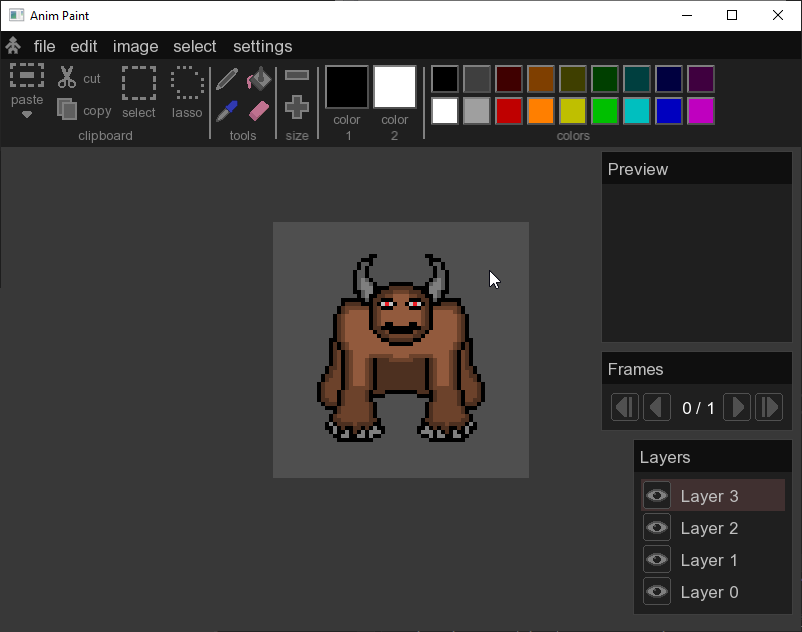
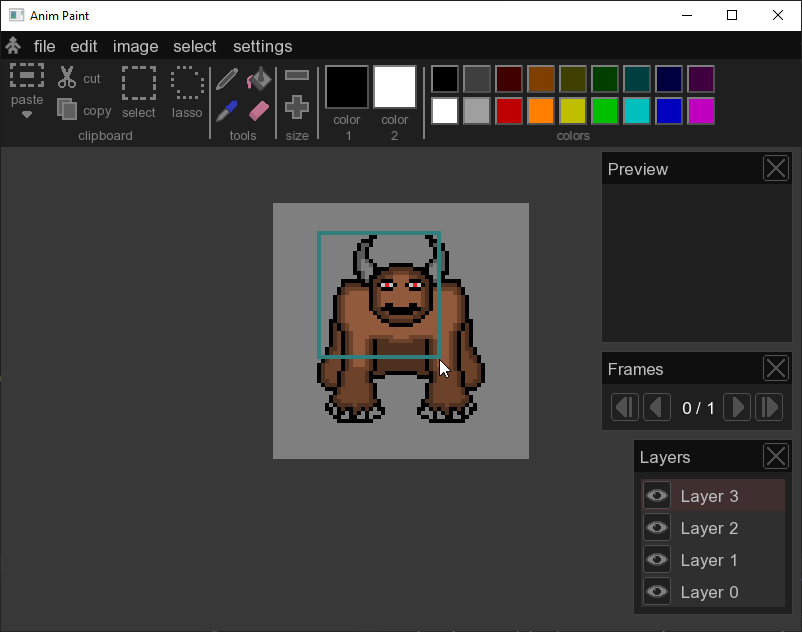
added new in image menu - rotation

diff --git a/Anim-Paint/dialogs/Dialog_Image_Rotation.hpp b/Anim-Paint/dialogs/Dialog_Image_Rotation.hpp
@@ -1,0 +1,131 @@
+#ifndef Dialog_Image_Rotation_hpp
+#define Dialog_Image_Rotation_hpp
+
+class Dialog_Image_Rotation : public Dialog {
+public:
+	sf::Text rotation_text;
+	Slider* rotation_slider;
+	NormalButtonWithText* reset;
+	NormalButtonWithText* confirm;
+
+	std::vector < Layer* > original_layers;
+	std::vector < Layer* > edited_layers;
+
+	Dialog_Image_Rotation(std::vector < Layer* > layers) : Dialog(L"rotation", sf::Vector2f(256,160), sf::Vector2f(8, 120)) {
+		
+		rotation_text = sf::Text(L"rotation", basicFont, 13);
+
+		rotation_slider = new Slider(0,359);
+		rotation_slider->setValue(0);
+
+		reset = new NormalButtonWithText(L"reset", sf::Vector2f(64, 32));
+		reset->onclick_func = [this]() {
+			rotation_slider->setValue(0);
+			setTheFilter();
+			};
+
+		confirm = new NormalButtonWithText(L"confirm", sf::Vector2f(64, 32));
+		confirm->onclick_func = [this]() {
+			state = DialogState::ToClose;
+
+			for (auto& o : original_layers) {
+				delete o;
+			}
+
+			frames_dialog->getCurrentFrame()->layers.clear();
+			frames_dialog->getCurrentFrame()->layers = edited_layers;
+			layers_dialog->loadLayersFromCurrentFrame();
+			};
+
+		original_layers.clear();
+		for (auto& l : layers) {
+			original_layers.push_back(new Layer(l));
+			edited_layers.push_back(new Layer(l));
+		}
+
+		setPosition(position);
+	}
+
+	~Dialog_Image_Rotation() {
+		
+	}
+
+	void setPosition(sf::Vector2f position) {
+		Dialog::setPosition(position);
+
+		sf::Vector2f text_pos;
+		text_pos.x = int(position.x) / 8 * 8 + 24;
+		text_pos.y = int(position.y) / 8 * 8 + dialog_title_rect_height / 2 + (160) / 2 - 24;
+		rotation_text.setPosition(text_pos + sf::Vector2f(0, 2 - basicFont.getLineSpacing(13) / 2));
+
+		sf::Vector2f slider_pos;
+		slider_pos.x = int(position.x) / 8 * 8 + 256 / 2 - 64 / 2;
+		slider_pos.y = int(position.y) / 8 * 8 + dialog_title_rect_height / 2 + (160) / 2 - 24;
+		rotation_slider->setPosition(slider_pos);
+
+		sf::Vector2f button_pos;
+		button_pos.x = int(position.x) / 8 * 8 +256/2 - 32;
+		button_pos.y = int(position.y) / 8 * 8 + 160 - confirm->getSize().y - 16;
+		reset->setPosition(button_pos - sf::Vector2f(48,0));
+		confirm->setPosition(button_pos + sf::Vector2f(48,0));
+	}
+
+	void setTheFilter() {
+		for (auto& lr : edited_layers) {
+			delete lr;
+		}
+
+		edited_layers.clear();
+
+		for (auto& org : original_layers) {
+			edited_layers.push_back(new Layer(org));
+			set_rotation(edited_layers.back()->image, rotation_slider->getValue());
+		}
+
+		frames_dialog->getCurrentFrame()->layers.clear();
+		frames_dialog->getCurrentFrame()->layers = edited_layers;
+		layers_dialog->loadLayersFromCurrentFrame();
+	}
+
+	void cursorHover() {
+		Dialog::cursorHover();
+
+		this->rotation_slider->cursorHover();
+		reset->cursorHover();
+		confirm->cursorHover();
+	}
+
+	void handleEvent(sf::Event& event) {
+		Dialog::handleEvent(event);
+
+		this->rotation_slider->handleEvent(event);
+		reset->handleEvent(event);
+		confirm->handleEvent(event);
+	}
+
+	void update() {
+		Dialog::update();
+
+		rotation_slider->update();
+
+		if (rotation_slider->state == SliderState::Changed) {
+			
+			setTheFilter();
+		}
+		
+		reset->update();
+		confirm->update();
+	}
+
+	void draw() {
+		Dialog::draw();
+
+		window->draw(rotation_text);
+		rotation_slider->draw();
+		reset->draw();
+		confirm->draw();
+	}
+
+};
+
+#endif

diff --git a/Anim-Paint/Filters.hpp b/Anim-Paint/Filters.hpp
@@ -1,5 +1,31 @@
-#ifndef Filters_hpp
+#ifndef Filters_hpp
 #define Filter_hpp
+
+std::string rotation_shader_source = R"(
+uniform sampler2D texture;
+uniform float angle;
+
+vec2 rotate(vec2 uv, vec2 pivot, float a) {
+    float c = cos(a);
+    float s = sin(a);
+    mat2 R = mat2(c, -s,
+                  s,  c);
+    return (R * (uv - pivot)) + pivot;
+}
+
+void main() {
+    vec2 uv = gl_TexCoord[0].xy;
+
+    vec2 rotated_uv = rotate(uv, vec2(0.5, 0.5), angle);
+
+    if (rotated_uv.x < 0.0 || rotated_uv.x > 1.0 ||
+        rotated_uv.y < 0.0 || rotated_uv.y > 1.0) {
+        gl_FragColor = vec4(0.0, 0.0, 0.0, 0.0);
+    } else {
+        gl_FragColor = texture2D(texture, rotated_uv);
+    }
+}
+)";
 
 std::string brightness_shader_source = R"(
 uniform sampler2D texture;
@@ -45,6 +71,28 @@ void main() {
     gl_FragColor = color;
 }
 )";
+
+void set_rotation(sf::Image& image, float angle) {
+
+    angle = angle * 3.14159265f / 180.f;
+
+    sf::Texture tex;
+    tex.loadFromImage(image);
+
+    sf::RenderTexture rtex;
+    rtex.create(tex.getSize().x, tex.getSize().y);
+
+    sf::Shader sh;
+    sh.loadFromMemory(rotation_shader_source, sf::Shader::Fragment);
+    sh.setUniform("angle", angle);
+
+    sf::Sprite spr(tex);
+    rtex.clear(sf::Color::Transparent);
+    rtex.draw(spr, &sh);
+    rtex.display();
+
+    image = rtex.getTexture().copyToImage();
+}
 
 void set_brightness(sf::Image& image, float value) {
 

diff --git a/Anim-Paint/MainMenu.hpp b/Anim-Paint/MainMenu.hpp
@@ -294,6 +294,14 @@ public:
 
 		OptionBox* image_resize_scale = new OptionBox(L"resize/scale");
 		OptionBox* image_trim = new OptionBox(L"trim");
+		OptionBox* image_rotation = new OptionBox(L"rotation");
+		image_rotation->onclick_func = [this]() {
+			dialogs.push_back(new Dialog_Image_Rotation(frames_dialog->getCurrentFrame()->layers));
+
+			if (open_menu_box != nullptr)
+				open_menu_box->isOpen = false;
+			open_menu_box = nullptr;
+			};
 		OptionBox* image_brightness_contrast = new OptionBox(L"brightness-contrast");
 		image_brightness_contrast->onclick_func = [this]() {
 			dialogs.push_back(new Dialog_Image_Brightness_Contrast(frames_dialog->getCurrentFrame()->layers));
@@ -316,6 +324,7 @@ public:
 		
 		image->addOption(image_resize_scale);
 		image->addOption(image_trim);
+		image->addOption(image_rotation);
 		image->addOption(image_brightness_contrast);
 		image->addOption(image_saturation);
 		image->addOption(image_hue);

diff --git a/Anim-Paint/main.cpp b/Anim-Paint/main.cpp
@@ -28,6 +28,7 @@
 #include "FramesDialog.hpp"
 #include "LayersDialog.hpp"
 
+#include "dialogs/Dialog_Image_Rotation.hpp"
 #include "dialogs/Dialog_Image_Brightness_Contrast.hpp"
 #include "dialogs/Dialog_Image_Saturation.hpp"
 
@@ -69,6 +70,12 @@ int main() {
 
 	// TO-DO - for development
 	main_menu->menu_boxes[2]->options[2]->click();
+
+	for (int y = 0; y < 32; y++) {
+		for (int x = 0; x < 4; x++) {
+			layers_dialog->getCurrentLayer()->image.setPixel(x+6, y+6, sf::Color::Black);
+		}
+	}
 
 	while (window->isOpen()) {
 		prevTime = currentTime;

diff --git a/README.md b/README.md
@@ -14,6 +14,8 @@
 ![Zrzut ekranu](screenshots/01.png)
 ![Zrzut ekranu](screenshots/02.png)
 ![Zrzut ekranu](screenshots/03.png)
+![Zrzut ekranu](screenshots/04.png)
+![Zrzut ekranu](screenshots/05.png)
 
 ## Instalacja
 1. Pobierz i zainstaluj Visual Studio 2022
